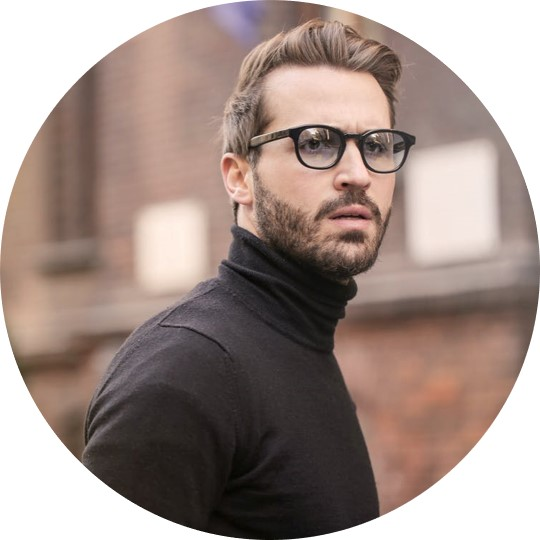
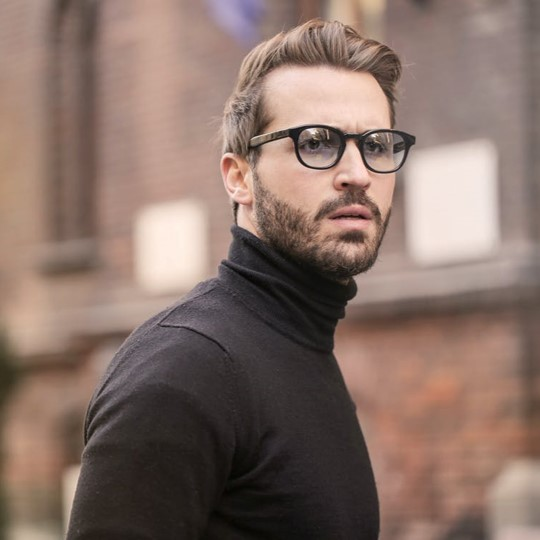
Fix the scaling issue with the meet our team images

diff --git a/index.html b/index.html
@@ -120,7 +120,7 @@
             </div>
             <div class="row">
                 <div class="col-3 team-id">
-                    <div class="row team-id-image"><img src="assets/images/person1.webp" alt="Picture of person 2"></div>
+                    <div class="row team-id-image"><img src="assets/images/person1.jpg" alt="Picture of person 2"></div>
                     <div class="row team-text">
                         <p>Lorem ipsum dolor, sit amet consectetur adipisicing elit. Veniam quidem vitae, nesciunt itaque ab
                             natus. Lorem ipsum dolor, sit amet consectetur adipisicing elit. Veniam quidem vitae, nesciunt itaque ab
@@ -128,7 +128,7 @@
                     </div>
                 </div>
                 <div class="col-3 team-id">
-                    <div class="row team-id-image"><img src="assets/images/person2.webp" alt="Picture of person 2"></div>
+                    <div class="row team-id-image"><img src="assets/images/person2.jpg" alt="Picture of person 2"></div>
                     <div class="row team-text">
                         <p>Lorem ipsum dolor, sit amet consectetur adipisicing elit. Veniam quidem vitae, nesciunt itaque ab
                             natus. Lorem ipsum dolor, sit amet consectetur adipisicing elit. Veniam quidem vitae, nesciunt itaque ab
@@ -136,7 +136,7 @@
                     </div>
                 </div>
                 <div class="col-3 team-id">
-                    <div class="row team-id-image"><img src="assets/images/person3.webp" alt="Picture of person 2"></div>
+                    <div class="row team-id-image"><img src="assets/images/person3.jpg" alt="Picture of person 2"></div>
                     <div class="row team-text">
                         <p>Lorem ipsum dolor, sit amet consectetur adipisicing elit. Veniam quidem vitae, nesciunt itaque ab
                             natus. Lorem ipsum dolor, sit amet consectetur adipisicing elit. Veniam quidem vitae, nesciunt itaque ab
@@ -144,7 +144,7 @@
                     </div>
                 </div>
                 <div class="col-3 team-id">
-                    <div class="row team-id-image"><img src="assets/images/person4.webp" alt="Picture of person 2"></div>
+                    <div class="row team-id-image"><img src="assets/images/person4.jpg" alt="Picture of person 2"></div>
                     <div class="row team-text">
                         <p>Lorem ipsum dolor, sit amet consectetur adipisicing elit. Veniam quidem vitae, nesciunt itaque ab
                             natus. Lorem ipsum dolor, sit amet consectetur adipisicing elit. Veniam quidem vitae, nesciunt itaque ab

diff --git a/assets/css/style.css b/assets/css/style.css
@@ -488,10 +488,10 @@ header {
 }
 
 .team-id-image img{
-    height: 300px;
     width: 75%;
     margin-left: 50px;
     margin-top: 10px;
+    border-radius: 50%;
 }
 
 .team-text {
